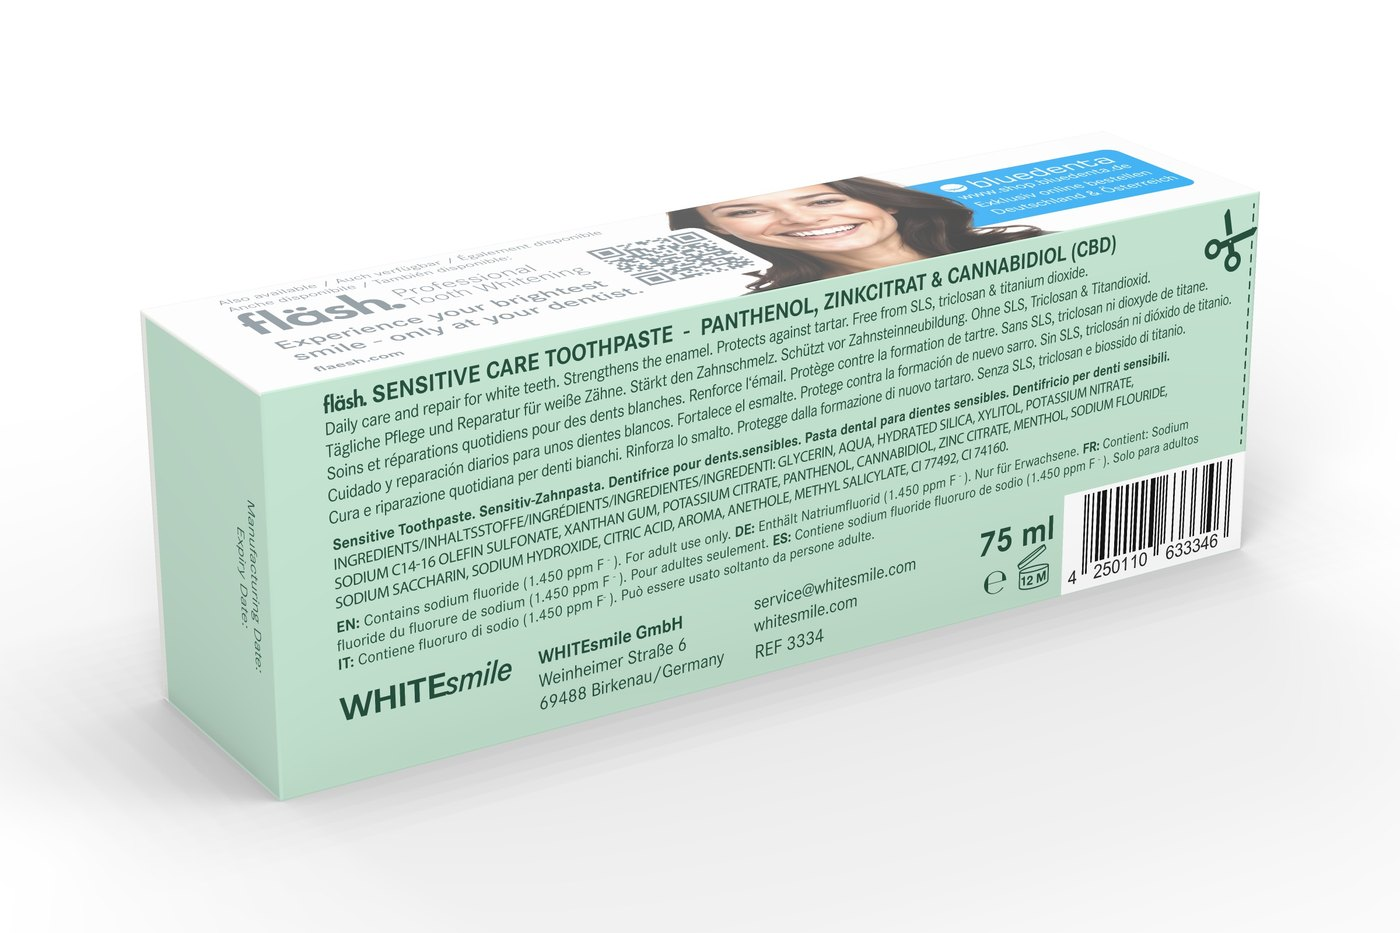
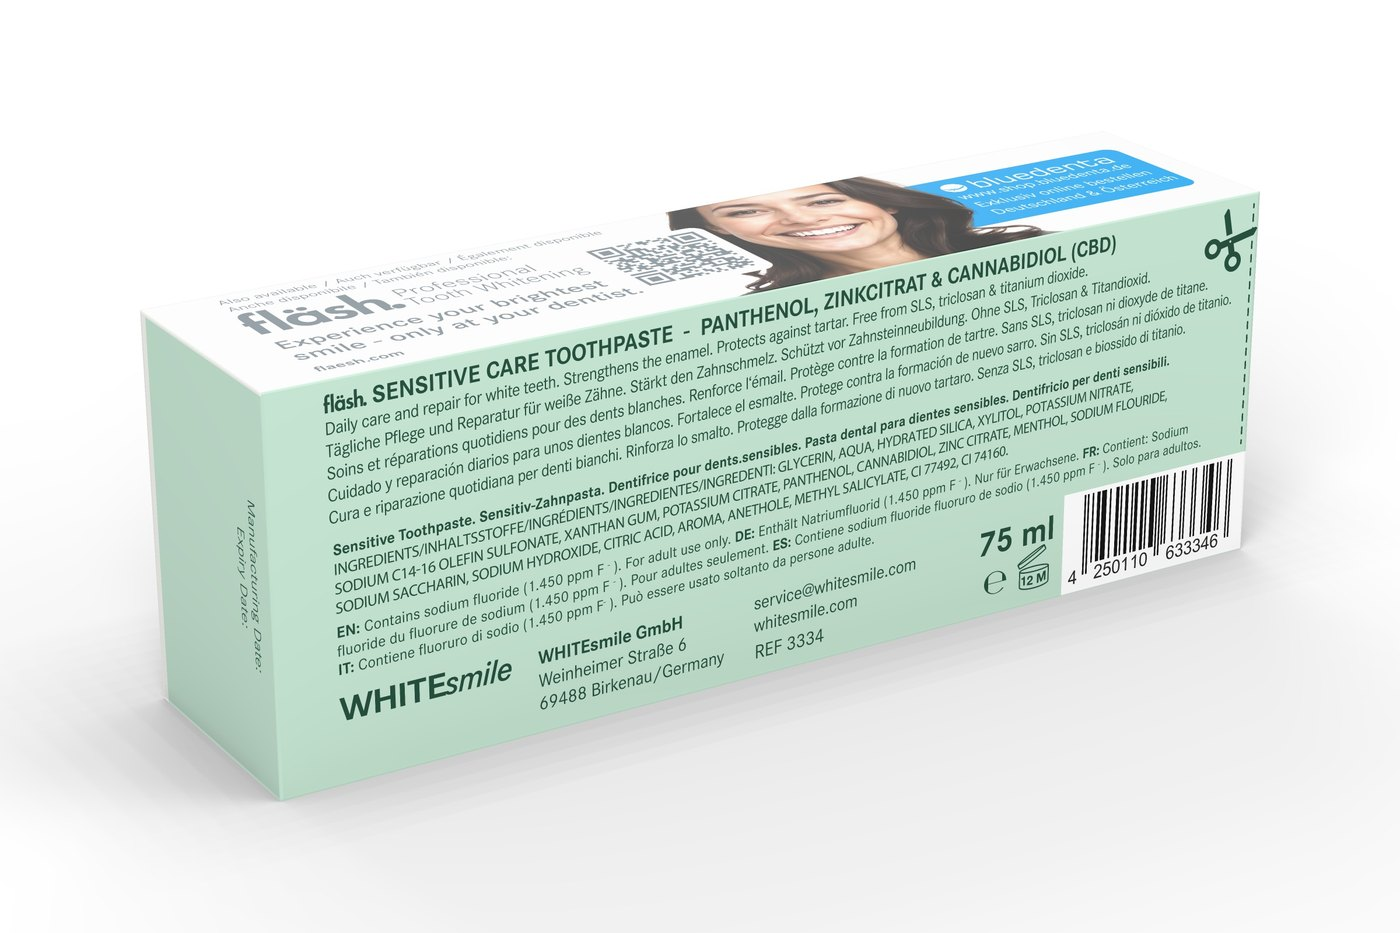
Rückseiten hell und dunkel aus 10_FLAESH_PACK_CDB_2026 ersetzt
Nur die Rückseite hat sich gegenüber 09 geändert (dunkel: Schere und
Schnittlinie ergänzt, hell: Satzzeichen/Zeilenlage). Die fünf Rückseiten-
Ansichten neu gerendert, alle anderen Ansichten unverändert. Quellenhinweis
im Fuß angepasst.

Claude-Session: https://claude.ai/code/session_0135uWaH2S4DqFUGpAcFKP5c

Changed region(s): [[0.215, 0.373, 0.86, 0.7149]]

diff --git a/index.html b/index.html
@@ -73,7 +73,7 @@
 </main>
 <footer class="foot">
   <div class="wrap">
-    <p class="meta">Grundlage: 09_FLAESH_PACK_CDB_2026.pdf (Schachtel Seiten 2 und 3, Tube Seite 5) · Stand 10. November 2026 · WHITEsmile GmbH, fläsh. Sensitive Care Toothpaste</p>
+    <p class="meta">Grundlage: 09_FLAESH_PACK_CDB_2026.pdf (Schachtel Seite 3, Tube Seite 5), Rückseiten aus 10_FLAESH_PACK_CDB_2026.pdf (Seiten 2 und 3) · Stand 11. November 2026 · WHITEsmile GmbH, fläsh. Sensitive Care Toothpaste</p>
   </div>
 </footer>
 <div class="lightbox" id="lightbox" role="dialog" aria-modal="true" aria-label="Große Ansicht" hidden>

diff --git a/README.md b/README.md
@@ -1,6 +1,6 @@
 # fläsh. Sensitive Care – Faltschachtel und Tube im neuen Design
 
-Präsentationsseite mit den 3D-Visualisierungen des neuen Designs (Grundlage: 09_FLAESH_PACK_CDB_2026.pdf, Seiten 2, 3 und 5, Stand 10. November 2026):
+Präsentationsseite mit den 3D-Visualisierungen des neuen Designs (Grundlage: 09_FLAESH_PACK_CDB_2026.pdf, Seiten 3 und 5; Rückseiten hell/dunkel aus 10_FLAESH_PACK_CDB_2026.pdf, Seiten 2 und 3; Stand 11. November 2026):
 Vorderseite mit neuem Zahnsymbol, Bluedenta-Seite (Werbefeld), Rückseite hell und dunkel, das Zahnsymbol in der Vergrößerung und die Tube (Seite 5).
 
 - `index.html` – statische Seite, kein Build-Schritt nötig (Vercel: Framework „Other“, Output = Repo-Root)
